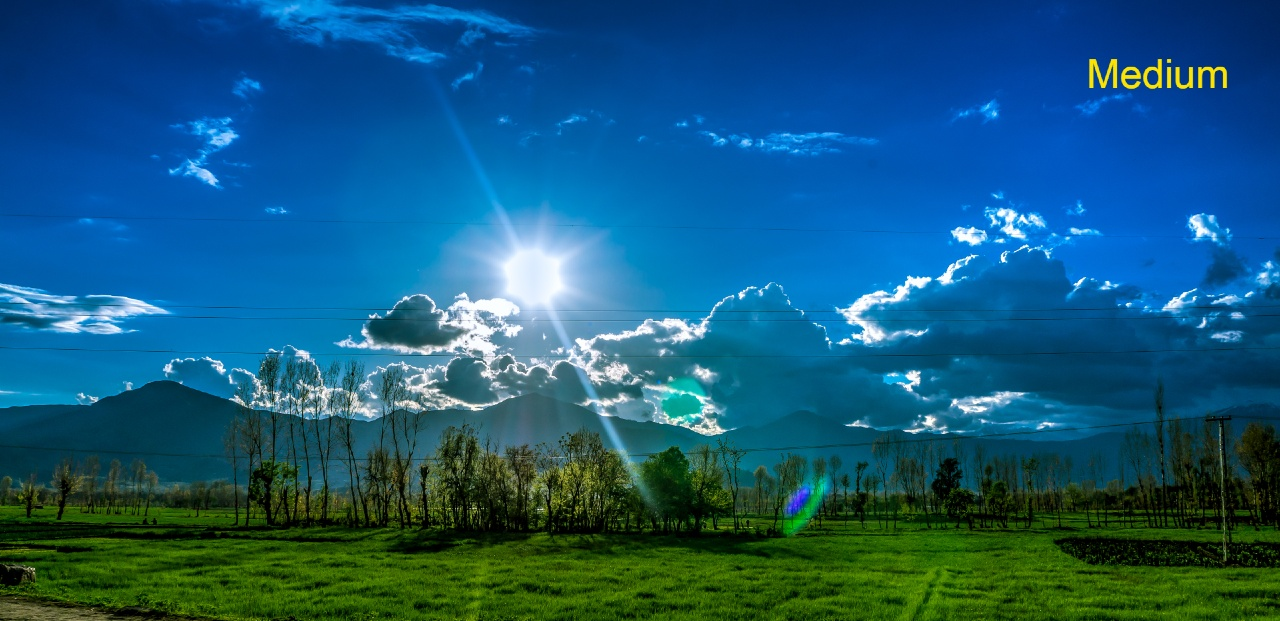
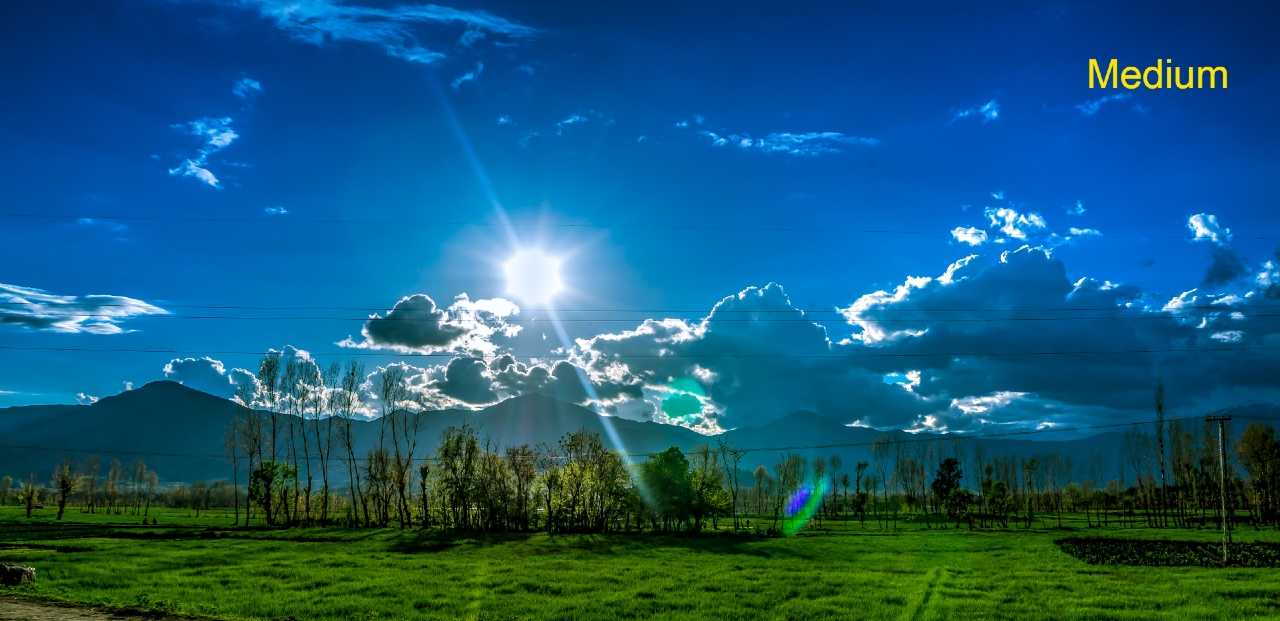
Optimized images and windchill js file added

diff --git a/lesson6/js/clear-weather.js b/lesson6/js/clear-weather.js
@@ -2,6 +2,7 @@
 const currentdate = new Date();
 const options = {weekday: 'long', year: 'numeric', month: 'long', day: 'numeric' };
 const formatDate = currentdate.toLocaleDateString('en-UK', options);
+
 document.querySelector("footer span").textContent = formatDate;
 
 
@@ -18,21 +19,4 @@ const dayName = currentdate.toLocaleDateString('en-UK', dayOption)
 
 if (dayName == "Friday") {
     document.getElementsByClassName("announcement")[0].classList.toggle("is-friday")
-}
-
-
-// Code for the wind chill calculator.
-const temp = document.getElementById("temp").innerHTML;
-const mph = document.getElementById("mph").innerHTML;
-const windChillSpace = document.getElementById("wind-chill");
-
-if (temp <= 50 && mph > 3) {
-    const windFactor = 35.74 + 0.6215*(temp) - 35.75*(mph)**0.16 + 0.4275*(temp)*(mph)**0.16
-    const windChill = Math.round(windFactor);
-    windChillSpace.innerHTML = windChill + " °F";
-    // windChillSpace.innerHTML = `${windChill} °F`; <-- How to do it with a Template Literal.
-}
-
-else {
-    windChillSpace.innerHTML = "N/A"
 }

diff --git a/lesson6/preston-6.html b/lesson6/preston-6.html
@@ -57,10 +57,10 @@
 
 				<div class="actual-info">
 					<p>Sunny</p>
-					<p><span id="temp">40</span> °F</p> <!--Temperature-->
+					<p><span id="temp">10</span> °F</p> <!--Temperature-->
 					<p><span id="wind-chill">N/A</span></p> <!--Wind Chill-->
 					<p>55%</p>
-					<p><span id="mph">20</span> mph</p> <!--Wind Speed-->
+					<p><span id="mph">25</span> mph</p> <!--Wind Speed-->
 				</div>
 			</div>
 		</section>
@@ -146,6 +146,7 @@
 	</footer>
 
 	<script src="/wdd230/lesson6/js/clear-weather.js"></script>
+	<script src="/wdd230/lesson6/js/windchill.js"></script>
 	<script src="https://ajax.googleapis.com/ajax/libs/webfont/1.6.26/webfont.js"></script>
 	<script>WebFont.load({ google: {families: ["Oswald:500", "Poppins"]} });</script>
 </body>

diff --git a/lesson6/js/windchill.js b/lesson6/js/windchill.js
@@ -1,0 +1,15 @@
+// Code for the wind chill calculator.
+const temp = document.getElementById("temp").innerHTML;
+const mph = document.getElementById("mph").innerHTML;
+const windChillSpace = document.getElementById("wind-chill");
+
+if (temp <= 50 && mph > 3) {
+    const windFactor = 35.74 + 0.6215*(temp) - 35.75*(mph)**0.16 + 0.4275*(temp)*(mph)**0.16
+    const windChill = Math.round(windFactor);
+    windChillSpace.innerHTML = windChill + " °F";
+    // windChillSpace.innerHTML = `${windChill} °F`; <-- How to do it with a Template Literal.
+}
+
+else {
+    windChillSpace.innerHTML = "N/A"
+}
